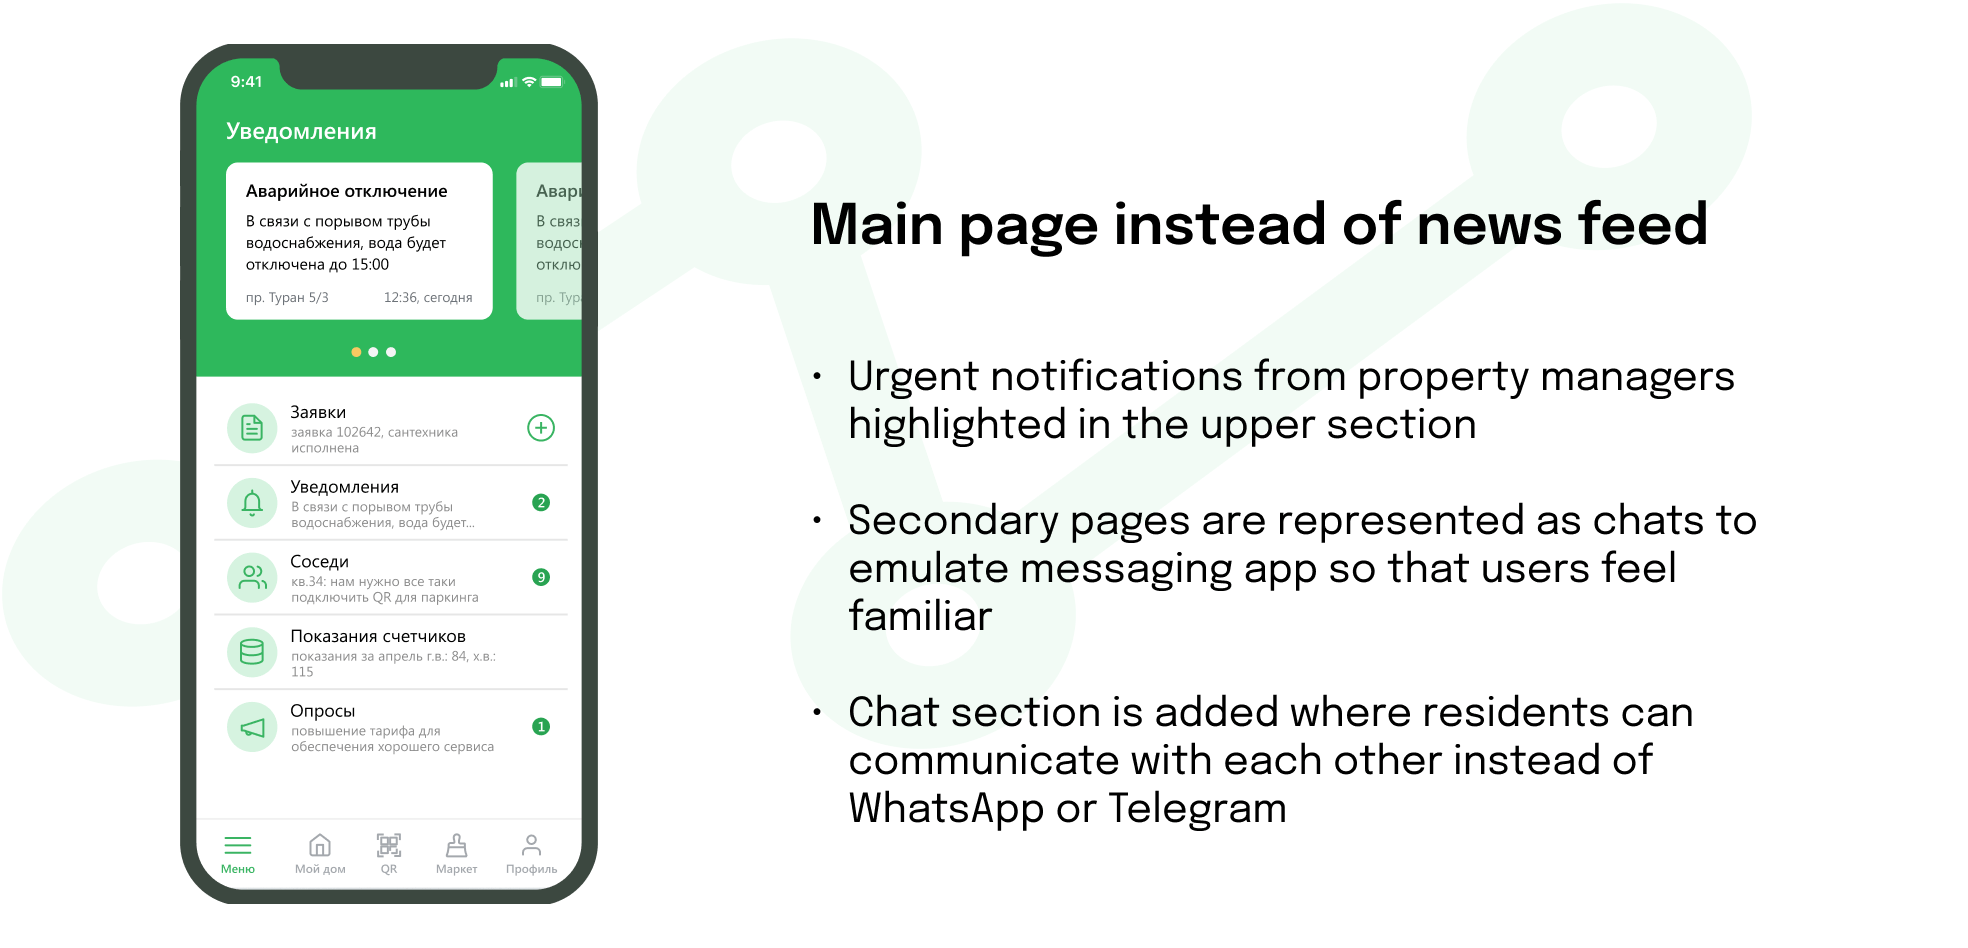
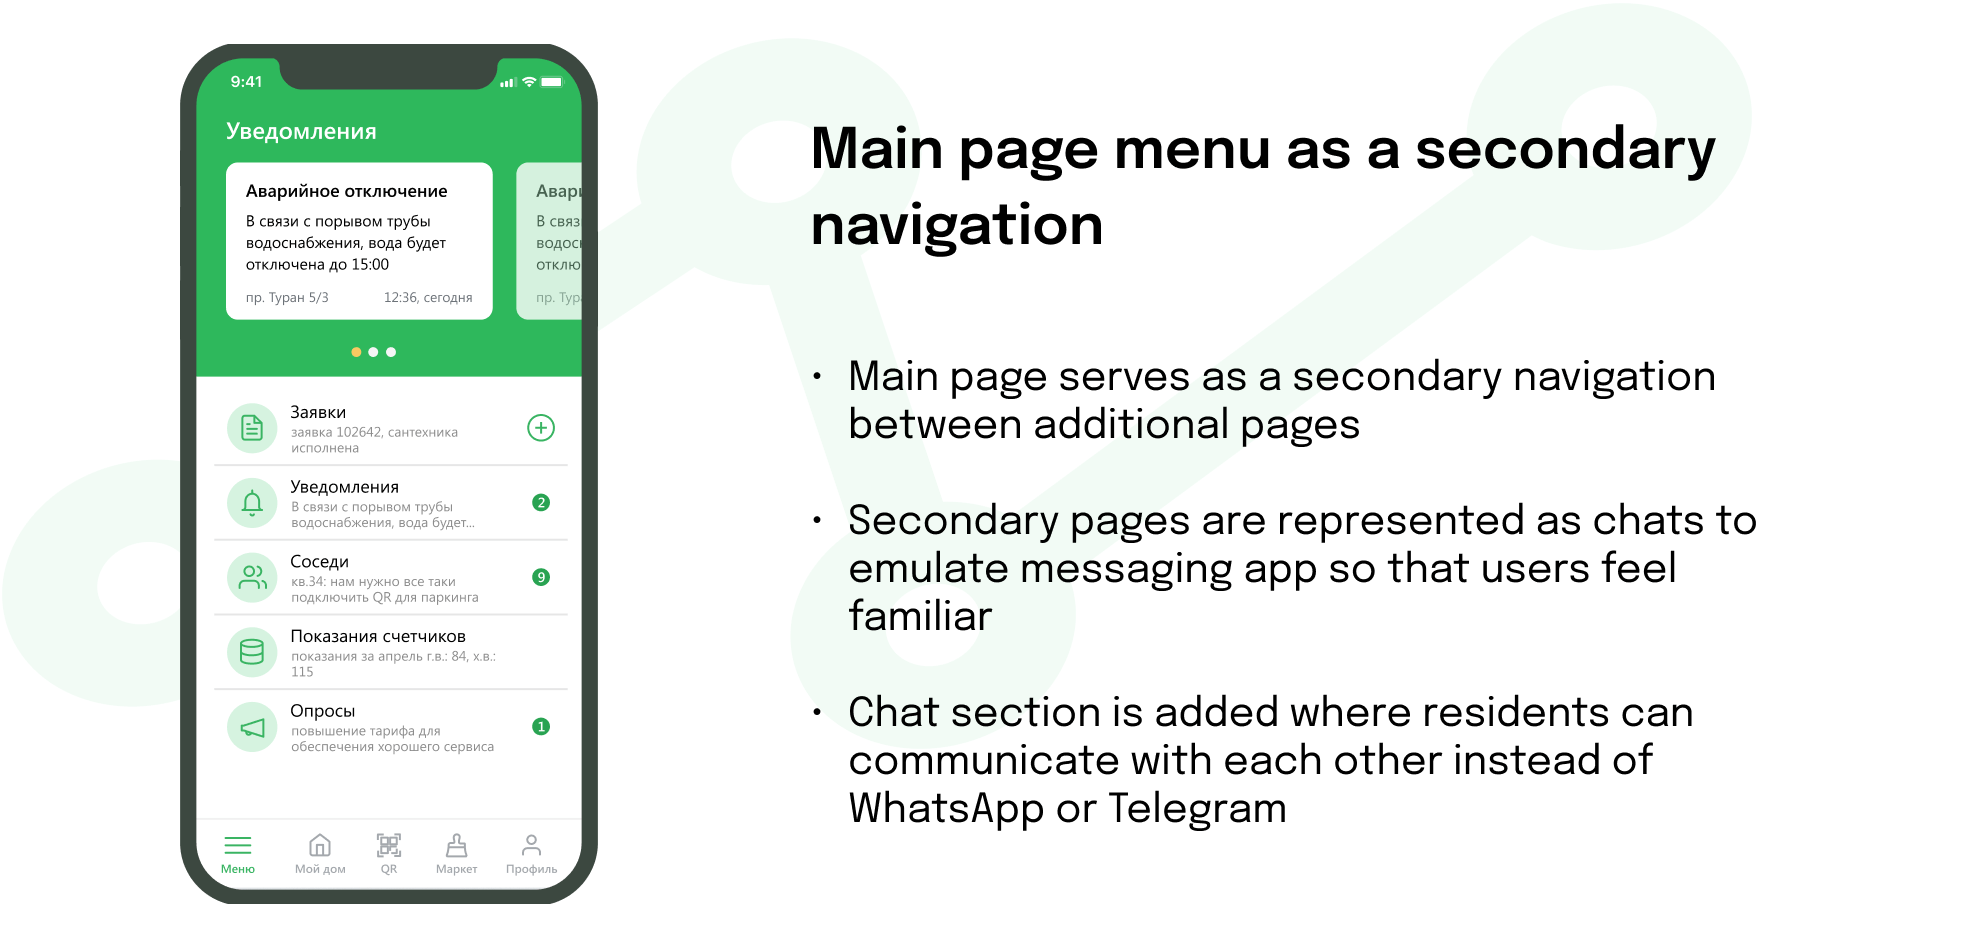
more aula content

Changed region(s): [[0.4339, 0.3671, 0.8989, 0.4895], [0.4029, 0.1224, 0.8679, 0.1835], [0.4029, 0.2141, 0.8679, 0.2753]]

diff --git a/src/components/Project/AULAProject.js b/src/components/Project/AULAProject.js
@@ -11,6 +11,16 @@ import solution1 from "./media/aula/solution1.png"
 import solution2 from "./media/aula/solution2.png"
 import solution3 from "./media/aula/solution3.png"
 
+import myapproach from "./media/aula/myapproach.png"
+
+import affinitymap from "./media/aula/affinitymap.png"
+
+import wireframingmainmenu from "./media/aula/wireframingmainmenu.png"
+
+import finaldesign1 from "./media/aula/finaldesign1.png"
+import finaldesign2 from "./media/aula/finaldesign2.png"
+import finaldesign3 from "./media/aula/finaldesign3.png"
+
 export function AULAProject() {
     return (
         <div className="ProjectPage AULAProject">
@@ -68,11 +78,111 @@ export function AULAProject() {
                 <div className="Section">
                     <h1>SOLUTION</h1>
 
-                    <img src={solution1} alt="Main page instead of news feed" loading="lazy" />
+                    <img src={solution1} alt="Main page menu as a secondary navigation" loading="lazy" />
 
                     <img src={solution2} alt="QR scan to open door" loading="lazy" />
 
                     <img src={solution3} alt="Bottom navigation" loading="lazy" />
+                </div>
+
+                <div className="Section">
+                    <h1>MY APPROACH</h1>
+
+                    <img src={myapproach} alt="My Approach" loading="lazy" />
+                </div>
+
+                <div className="Section">
+                    <h1>01 DEFINE</h1>
+
+                    <h2>Main Page vs News feed</h2>
+
+                    <p>
+                        When the AULA.KZ just launched it introduced itself as a <b>“social media”</b> for residents where they can post announcements, advertisement, ask questions and etc. That’s why the main page was designed as a news feed where all posts were allocated. <b>However this concept wasn’t viable since almost none of the residents ever posted something.</b> This situation left me with 2 hypotheses which I needed to check:
+                        <ol>
+                            <b>
+                                <li>
+                                    Residents don’t post anything because they have another platform for this with better experience;
+                                </li>
+                                <li>
+                                    New users get confused and unwelcomed when they first open the app since the news feed page is always empty which leaves the feeling that “nobody is using this app”
+                                </li>
+                            </b>
+                        </ol>
+                    </p>
+
+                    <p>To check my hypotheses I interviewed existing users and new ones.</p>
+                    <br />
+                    <br />
+
+                    <h1>02 RESEARCH</h1>
+
+                    <h2>Affinity Map based on User Interview</h2>
+
+                    <img src={affinitymap} alt="Affinity Map based on User Interview" loading="lazy" />
+
+                    <h2>Research Results Analysis</h2>
+
+                    <p>
+                        My two hypotheses were verified:
+                        <ol>
+                            <b>
+                                <li>
+                                    Residents don’t post anything because they have another platform for this with better experience;
+                                </li>
+                                <li>
+                                    New users get confused and unwelcomed when they first open the app since the news feed page is always empty which leaves the feeling that “nobody is using this app”
+                                </li>
+                            </b>
+                        </ol>
+                    </p>
+
+                    <p>
+                        User interviews brought valuable insights on how some parts of the app can be redesigned. Now I had possible directions I can follow while sketching draft wireframes:
+                        <ul className="highlight">
+                            <li>
+                                <b>Introduction of primary and secondary navigation to highlight important pages.</b> This could be done by switching to bottom navigation bar (previously it was hamburger menu with all pages) where important pages will be shown, and redesigning news feed to main menu page which will locate navigation to other pages;
+                            </li>
+                        </ul>
+                        <ul className="highlight">
+                            <li>
+                                <b>Main menu page can be designed in the form of a messaging apps with “chats view”.</b> By doing so new users will be get familiar with the interface which will ensure faster and more effective onboarding.
+                            </li>
+                        </ul>
+                    </p>
+
+                    <h2>Increasing retention rate</h2>
+
+                    <p>
+                        Mentioned above ideas can help for better onboarding and faster navigation in app. However, one more goal has to be covered: <b>increasing the retention rate.</b> To achieve this goal we brainstormed with the stakeholder and came up with 2 ideas:
+                        <ol>
+                            <li>
+                                Incorporating messaging feature. Residents can chat on various question via AULA.KZ instead of WhatsApp;
+                            </li>
+                            <li>
+                                Adding QR scanning system to open entrance doors and access parking zone. This idea was supported with property management companies and now all of them are using this system
+                            </li>
+                        </ol>
+                    </p>
+                </div>
+
+                <div className="Section">
+                    <h1>03 DESIGN</h1>
+
+                    <h2>Wireframing main menu page</h2>
+
+                    <img src={wireframingmainmenu} alt="Wireframing main menu page" loading="lazy" />
+                </div>
+
+                <div className="Section">
+                    <h1>FINAL DESIGNS</h1>
+
+                    <h2>3 major improvements in design</h2>
+
+                    <img src={finaldesign1} alt="Main menu instead of News feed" loading="lazy" />
+
+                    <img src={finaldesign2} alt="QR code to open door" loading="lazy" />
+
+                    <img src={finaldesign3} alt="Switching to bottom navigation" loading="lazy" />
                 </div>
 
             </div>

diff --git a/src/components/Home/Projects/Project.js b/src/components/Home/Projects/Project.js
@@ -20,7 +20,7 @@ export function Project(props) {
                     </div>
                 </div>
                 <div className="Project-image-container">
-                    <img className="Project-image" alt={name} src={placeholder} />
+                    <img className="Project-image" alt={name} src={props?.src || placeholder} />
                 </div>
                 <Link to={props.link_to} className="Project-link link no-hover-effect">
                     View Full Project

diff --git a/src/components/Home/Projects/index.js b/src/components/Home/Projects/index.js
@@ -1,5 +1,7 @@
 import "./index.css";
 
+import aulakz from './media/aulakz.png';
+
 import { Project } from "./Project.js";
 
 export function Projects() {
@@ -10,6 +12,7 @@ export function Projects() {
                 name="AULA"
                 description="Designed some empty state screens in kawaii style for the popular sheepify app"
                 link_to="projects/aula"
+                src={aulakz}
             />
 
             <Project

diff --git a/src/components/Project/index.css b/src/components/Project/index.css
@@ -170,6 +170,20 @@
     line-height: 1.8em;
 }
 
+.ProjectPage .Section b {
+    font-weight: 600;
+}
+
+.ProjectPage .Section .highlight {
+    background-color: #E2F1EA;
+
+    padding-top: 1em;
+    padding-bottom: 1em;
+
+    padding-left: 2em;
+    padding-right: 2em;
+}
+
 .ProjectPage .Section .Special-h2 {
     display: grid;
     grid-template-columns: [left] 1fr [right];

diff --git a/src/components/Home/Projects/Project.css b/src/components/Home/Projects/Project.css
@@ -45,8 +45,8 @@
 }
 
 .Project-image-container {
-    grid-column: mid / right-pad;
-    grid-row: top-pad / bottom-pad;
+    grid-column: mid / right;
+    grid-row: top / bottom;
 }
 
 .Project-image {
